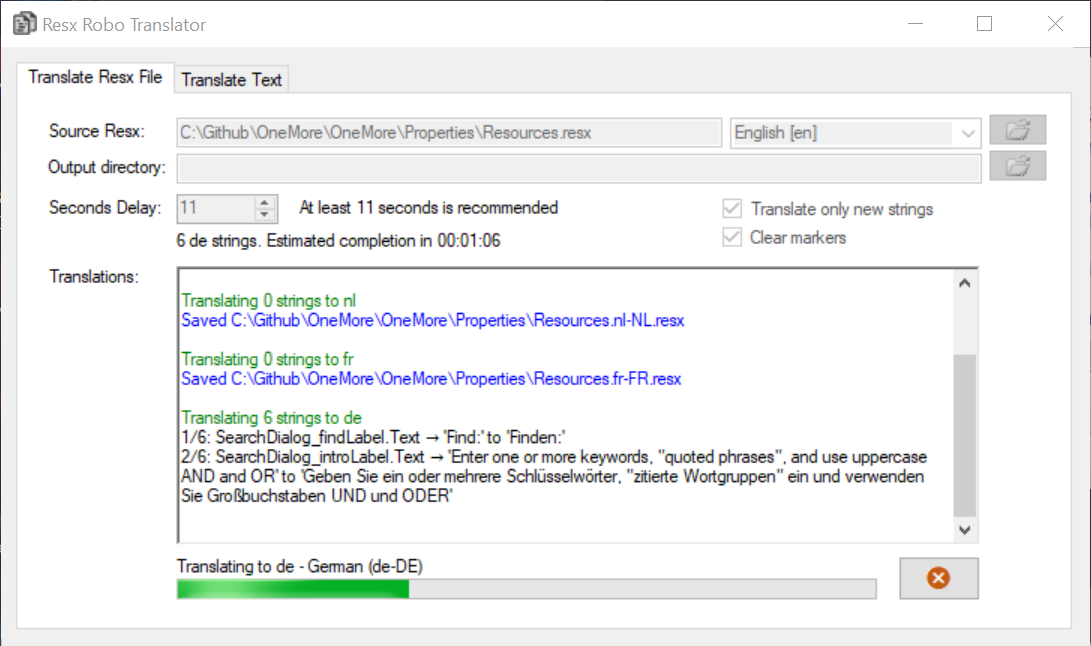
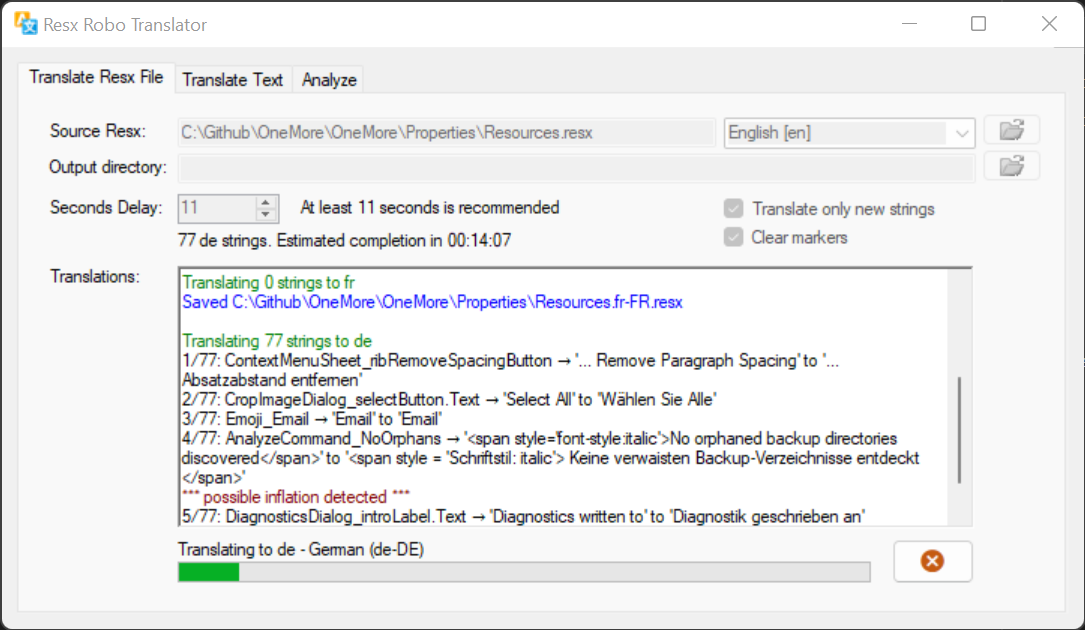
update readme

diff --git a/Translator.cs b/Translator.cs
@@ -35,6 +35,10 @@ namespace ResxTranslator
 
 	internal class Translator
 	{
+		//private const int PerEstimate = 1250;
+		private const int PerEstimate = 100;
+
+
 		public static readonly List<string> Codes = new List<string>
 		{
 			#region Code
@@ -231,7 +235,7 @@ namespace ResxTranslator
 		/// <returns></returns>
 		public static bool Estimate(string path, out int strings, out int seconds)
 		{
-			return Estimate(path, out strings, 1250, out seconds);
+			return Estimate(path, out strings, PerEstimate, out seconds);
 		}
 
 

diff --git a/README.md b/README.md
@@ -51,13 +51,6 @@ If the resource file includes control or configuration entries that should not b
 then flag these by including the word **SKIP** in the entry's comment. It must be capitalized.
 The comment can include other text besides the word SKIP.
 
-#### Analysis - ignoring specific duplicate
-
-The Analyze tab analyzes a resx file looking for duplicate uses of words and phrase.
-There will likely be legitimate cases where you want to use duplicates but in very
-different contexts. In these case, you can tag those resources with the NODUP keyword;
-the analyzer will ignore those resources.
-
 #### Using an Override Hint File
 
 While Google translator is generally quite good, there are nuances in languages that it can't
@@ -112,3 +105,16 @@ string that may need manual tuning. Of course, the program itself has no way of 
 exact context of the translation so it simply compares the number of spaces in the input
 string and the output string. Most of the time, the translation is accurate and shouldn't
 need to be adjusted manually.
+
+### Analyze
+
+The Analyze tab analyzes a resx file looking for duplicate uses of words and phrase.
+
+![Analyze Resources](Images/AnalyzeScreen.png)
+
+#### Ignoring Known Duplicate
+
+There will likely be legitimate cases where you want to use duplicates but in very
+different contexts. In these case, you can tag those resources with the NODUP keyword;
+the analyzer will ignore those resources and not report them as duplicates.
+
